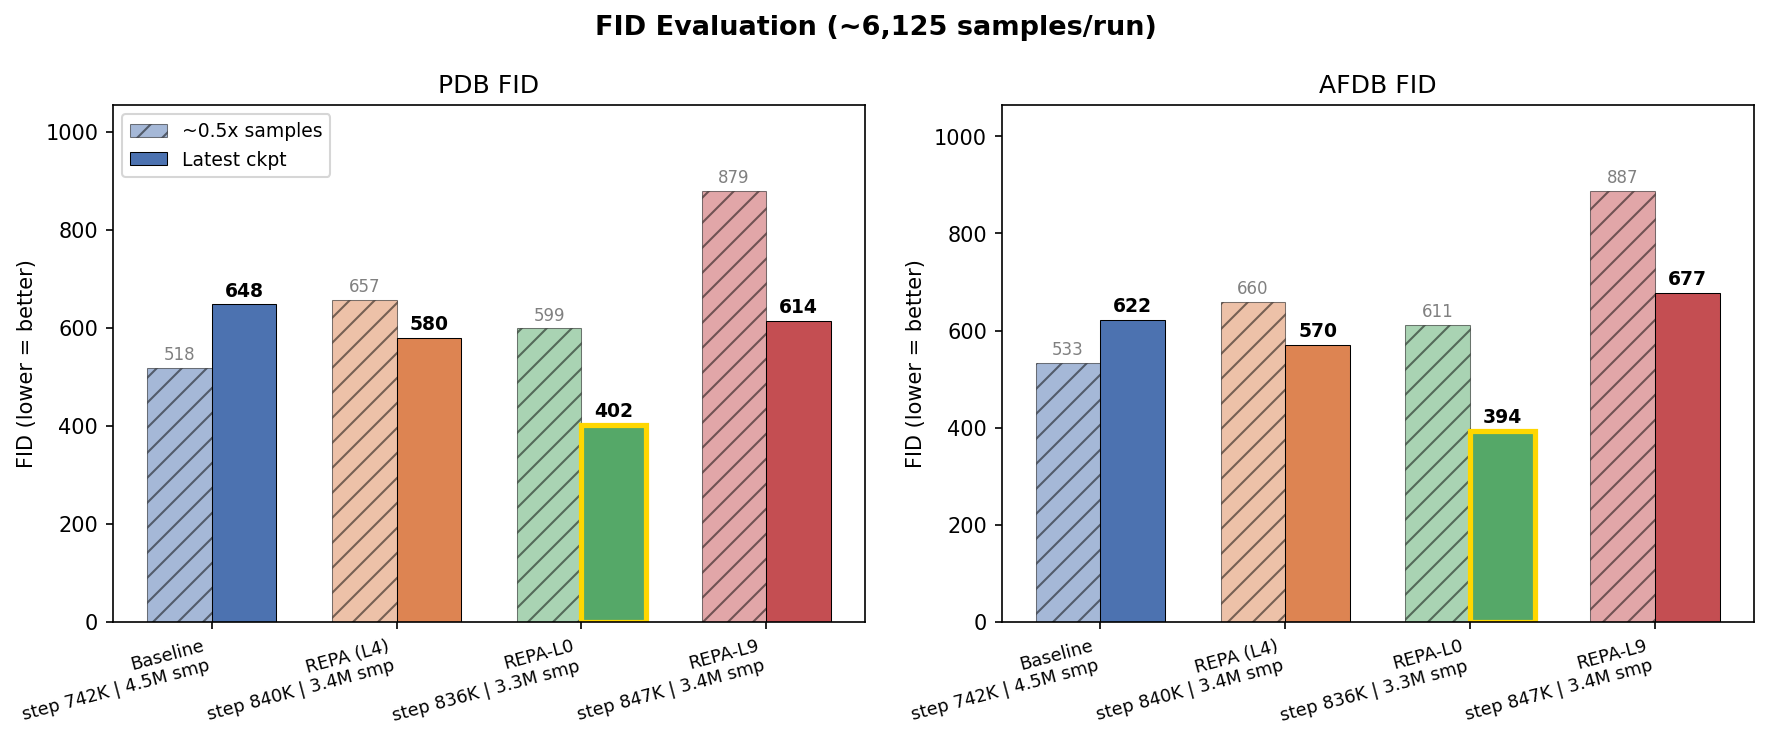
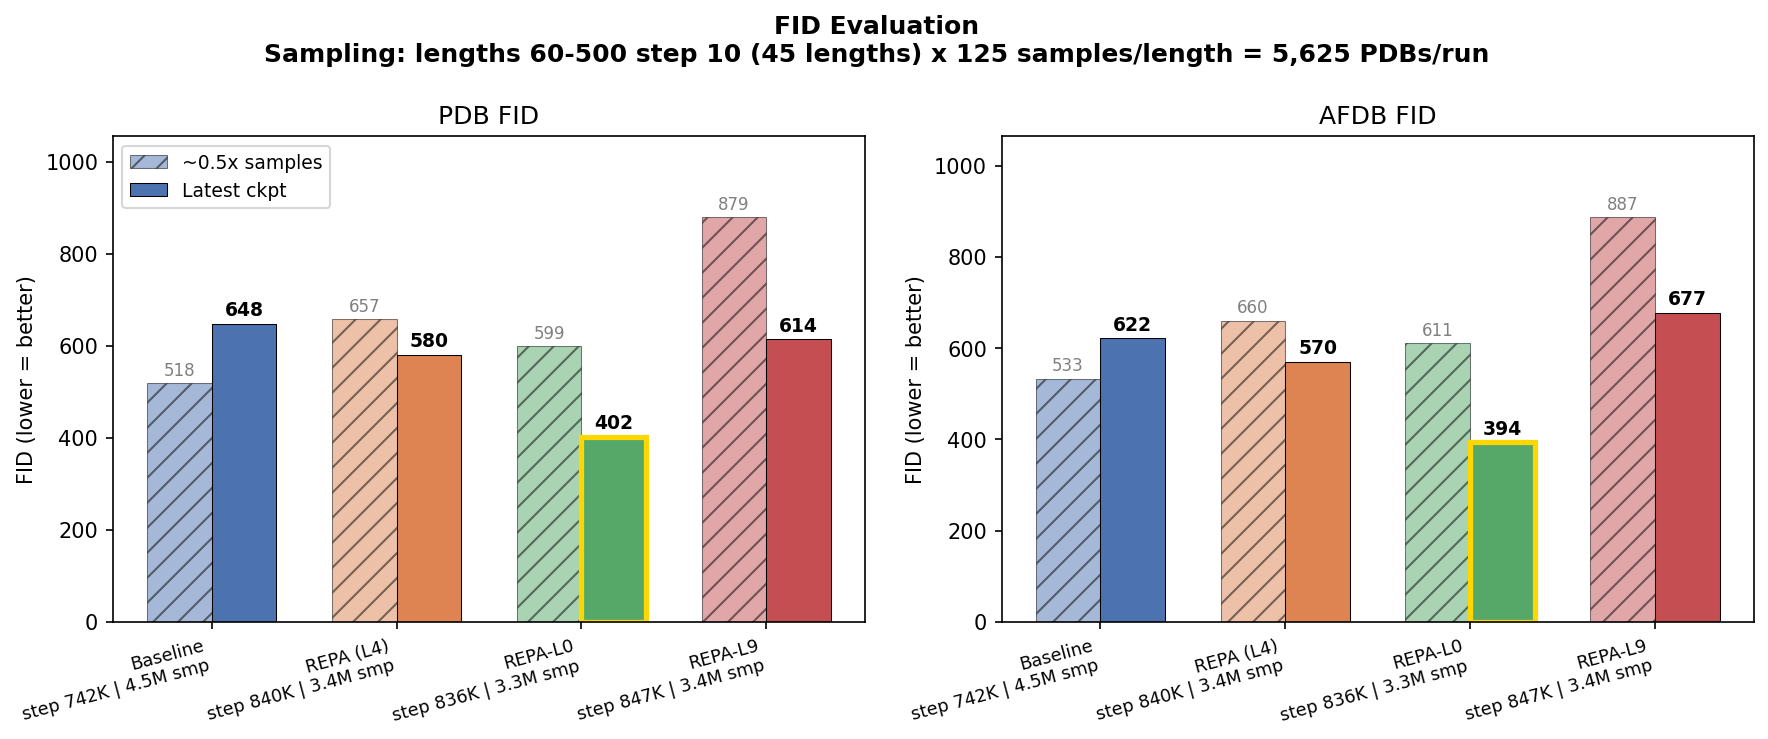
evaluation/proteina/generation: fix 5,625 typo + add sampling protocol to plot headers
Each suptitle now spells out the per-checkpoint sample count and length
schedule so a bar's value is interpretable without cross-referencing the
inference config:

  plot_fid_comparison    -> "60-500 step 10 (45 lengths) x 125/length =
                             5,625 PDBs/run" (was "~6,125", off by 500)
  plot_fid_convergence   -> lite (300/ckpt) + full (5,625/ckpt), keyed to
                             dotted vs solid lines in the legend
  plot_n128_sweep        -> "nres_lens=[128] x 200/length = 200 PDBs"
  plot_n128_L4_bs80      -> same protocol as n=128 lite
  plot_n256_sweep        -> "nres=[256] x 200, gen_bs=80 rounds up via
                             split_nlens -> 240 PDBs" (compile shape padding)
  plot_sample_matched    -> heterogeneous: n=128/512 = 200, n=256 = 240

Each note also calls out that designability/scRMSD subsample N=100 while
FID/fJSD/fS/novelty use the full PDB set, so paired bars in the same
figure are not all backed by the same sample size.

diff --git a/evaluation/proteina/generation/scripts/plot_fid_convergence.py b/evaluation/proteina/generation/scripts/plot_fid_convergence.py
@@ -258,7 +258,11 @@ def main():
     plot_metric(data, "_res_AFDB_FID", axes_fid[1], log_y=True)
     axes_fid[0].legend(fontsize=9)
     fig_fid.suptitle(
-        "FID vs Samples Seen (BS=6 baseline, BS=4 REPA)", fontsize=14, fontweight="bold"
+        "FID vs Samples Seen (BS=6 baseline, BS=4 REPA)\n"
+        "Sampling: lite eval (dotted) = lengths 60-500 step 40 x 25/len = 300 PDBs/ckpt; "
+        "full eval (solid) = lengths 60-500 step 10 x 125/len = 5,625 PDBs/ckpt",
+        fontsize=12,
+        fontweight="bold",
     )
     fig_fid.tight_layout()
     fid_path = os.path.join(OUTPUT_DIR, "fid_convergence.png")
@@ -273,8 +277,10 @@ def main():
             plot_metric(data, metric, axes_jsd[i, j])
     axes_jsd[0, 0].legend(fontsize=9)
     fig_jsd.suptitle(
-        "Fold JSD vs Samples Seen (BS=6 baseline, BS=4 REPA)",
-        fontsize=14,
+        "Fold JSD vs Samples Seen (BS=6 baseline, BS=4 REPA)\n"
+        "Sampling: lite eval (dotted) = lengths 60-500 step 40 x 25/len = 300 PDBs/ckpt; "
+        "full eval (solid) = lengths 60-500 step 10 x 125/len = 5,625 PDBs/ckpt",
+        fontsize=12,
         fontweight="bold",
     )
     fig_jsd.tight_layout()
@@ -289,8 +295,10 @@ def main():
         plot_metric(data, metric, axes_fs[j])
     axes_fs[0].legend(fontsize=9)
     fig_fs.suptitle(
-        "Fold Scores vs Samples Seen (BS=6 baseline, BS=4 REPA)",
-        fontsize=14,
+        "Fold Scores vs Samples Seen (BS=6 baseline, BS=4 REPA)\n"
+        "Sampling: lite eval (dotted) = lengths 60-500 step 40 x 25/len = 300 PDBs/ckpt; "
+        "full eval (solid) = lengths 60-500 step 10 x 125/len = 5,625 PDBs/ckpt",
+        fontsize=12,
         fontweight="bold",
     )
     fig_fs.tight_layout()

diff --git a/evaluation/proteina/generation/scripts/plot_fid_comparison.py b/evaluation/proteina/generation/scripts/plot_fid_comparison.py
@@ -233,10 +233,10 @@ def plot_fid_bars(results_late, results_early):
         bars_l[best_idx].set_linewidth(2.5)
 
     axes[0].legend(fontsize=9)
-    n_samples = "~6,125"
     fig.suptitle(
-        f"FID Evaluation ({n_samples} samples/run)",
-        fontsize=13,
+        "FID Evaluation\n"
+        "Sampling: lengths 60-500 step 10 (45 lengths) x 125 samples/length = 5,625 PDBs/run",
+        fontsize=12,
         fontweight="bold",
     )
     plt.tight_layout()
@@ -327,8 +327,9 @@ def plot_fjsd_bars(results_late, results_early):
         ax.set_ylim(0, max(max(pdb_vals), max(afdb_vals)) * 1.3)
 
     fig.suptitle(
-        "Fold Jensen-Shannon Divergence (latest ckpt, triangles = ~0.5x samples)",
-        fontsize=13,
+        "Fold Jensen-Shannon Divergence (latest ckpt, triangles = ~0.5x samples)\n"
+        "Sampling: lengths 60-500 step 10 (45 lengths) x 125 samples/length = 5,625 PDBs/run",
+        fontsize=12,
         fontweight="bold",
     )
     plt.tight_layout()
@@ -409,8 +410,9 @@ def plot_fold_score_bars(results_late, results_early):
 
     axes[0].legend(fontsize=9)
     fig.suptitle(
-        "Fold Score - Inception Score variant",
-        fontsize=13,
+        "Fold Score - Inception Score variant\n"
+        "Sampling: lengths 60-500 step 10 (45 lengths) x 125 samples/length = 5,625 PDBs/run",
+        fontsize=12,
         fontweight="bold",
     )
     plt.tight_layout()

diff --git a/evaluation/proteina/generation/scripts/plot_sample_matched.py b/evaluation/proteina/generation/scripts/plot_sample_matched.py
@@ -297,12 +297,15 @@ def plot(data: dict, steps_by_size: dict) -> None:
         bbox_to_anchor=(0.5, -0.02),
     )
 
-    plt.tight_layout(rect=[0, 0.04, 1, 0.96])
+    plt.tight_layout(rect=[0, 0.04, 1, 0.95])
     fig.suptitle(
         "Generation quality - cross-size comparison\n"
         "Per-bar x-tick: step | samples-seen. n=128 and n=512_sm are sample-matched within each row; "
-        "n=256 is NOT (bs=12->24 ramp fired at different relative steps).",
-        fontsize=12,
+        "n=256 is NOT (bs=12->24 ramp fired at different relative steps).\n"
+        "Sampling per checkpoint: n=128/512 -> 200 PDBs (nres=[L] x 200/length); "
+        "n=256 -> 240 PDBs (nres=[256] x 200/length, gen_bs=80 rounds up via split_nlens). "
+        "Designability/scRMSD subsample N=100.",
+        fontsize=11,
         fontweight="bold",
         y=0.99,
     )

diff --git a/evaluation/proteina/generation/scripts/plot_n256_sweep.py b/evaluation/proteina/generation/scripts/plot_n256_sweep.py
@@ -191,8 +191,10 @@ def plot(data: dict, steps: dict) -> None:
     fig.suptitle(
         "n=256 sweep - generation metrics (all runs at step 400K, NOT sample-matched)\n"
         "All 4 runs share dataset pdb_lmdb_256 (bs=12->24 bumped 2026-04-19), "
-        "but the bs ramp fired at different relative steps; samples seen = epoch x 267,789.",
-        fontsize=11,
+        "but the bs ramp fired at different relative steps; samples seen = epoch x 267,789.\n"
+        "Sampling per checkpoint: nres_lens=[256] x 200 samples/length, gen_bs=80 rounds up "
+        "via split_nlens -> 240 PDBs (FID/fS/fJSD/novelty use all 240; designability/scRMSD subsample N=100).",
+        fontsize=10,
         fontweight="bold",
         y=0.99,
     )

diff --git a/evaluation/proteina/generation/scripts/plot_n128_sweep.py b/evaluation/proteina/generation/scripts/plot_n128_sweep.py
@@ -196,8 +196,10 @@ def plot(data: dict, steps: dict) -> None:
     fig.suptitle(
         "n=128 sweep - generation metrics at sample-matched checkpoints (~19.5M samples)\n"
         "Baseline trained at fixed bs=24; REPA students switched bs=24->80 at step 220K. "
-        "Each bar is one EMA checkpoint; tick labels show per-run bs/step/samples.",
-        fontsize=11,
+        "Each bar is one EMA checkpoint; tick labels show per-run bs/step/samples.\n"
+        "Sampling per checkpoint: nres_lens=[128] x 200 samples/length = 200 PDBs "
+        "(FID/fS/fJSD/novelty use all 200; designability/scRMSD subsample N=100).",
+        fontsize=10,
         fontweight="bold",
         y=0.99,
     )

diff --git a/evaluation/proteina/generation/scripts/plot_n128_L4_bs80.py b/evaluation/proteina/generation/scripts/plot_n128_L4_bs80.py
@@ -202,8 +202,10 @@ def plot(data: dict, steps: dict) -> None:
     )
 
     fig.suptitle(
-        "n=128 L4 bs=80 sweep - generation metrics at sample-matched checkpoints",
-        fontsize=13,
+        "n=128 L4 bs=80 sweep - generation metrics at sample-matched checkpoints\n"
+        "Sampling per checkpoint: nres_lens=[128] x 200 samples/length = 200 PDBs "
+        "(FID/fS/fJSD/novelty use all 200; designability/scRMSD subsample N=100).",
+        fontsize=11,
         fontweight="bold",
         y=1.01,
     )
